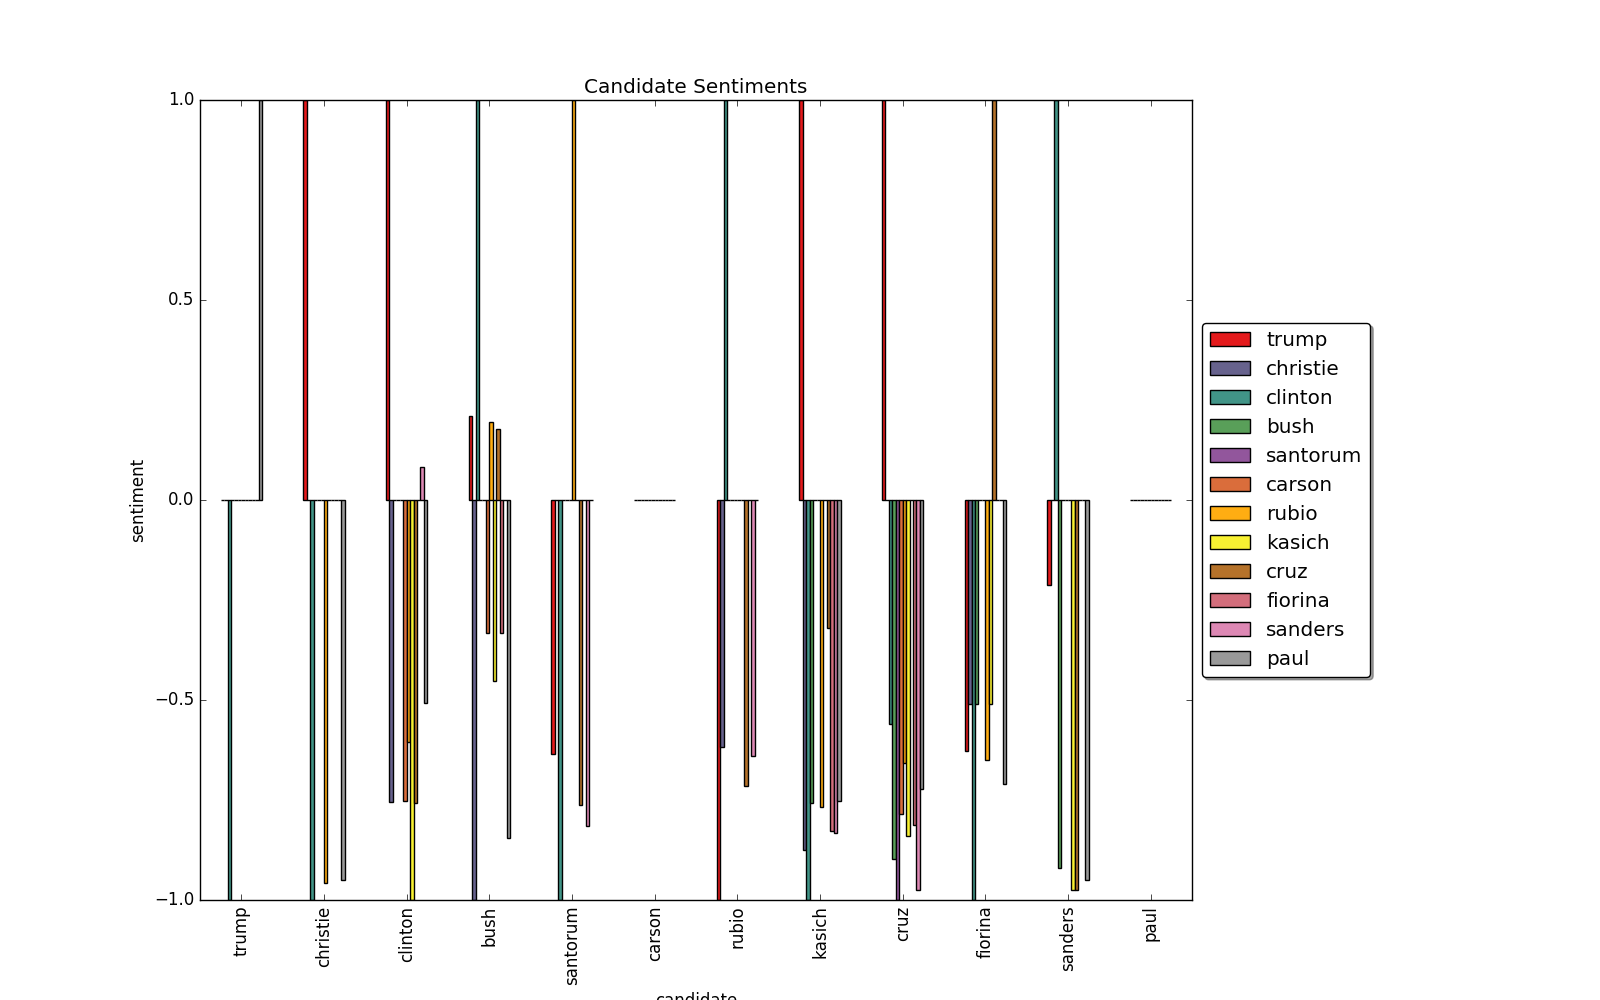
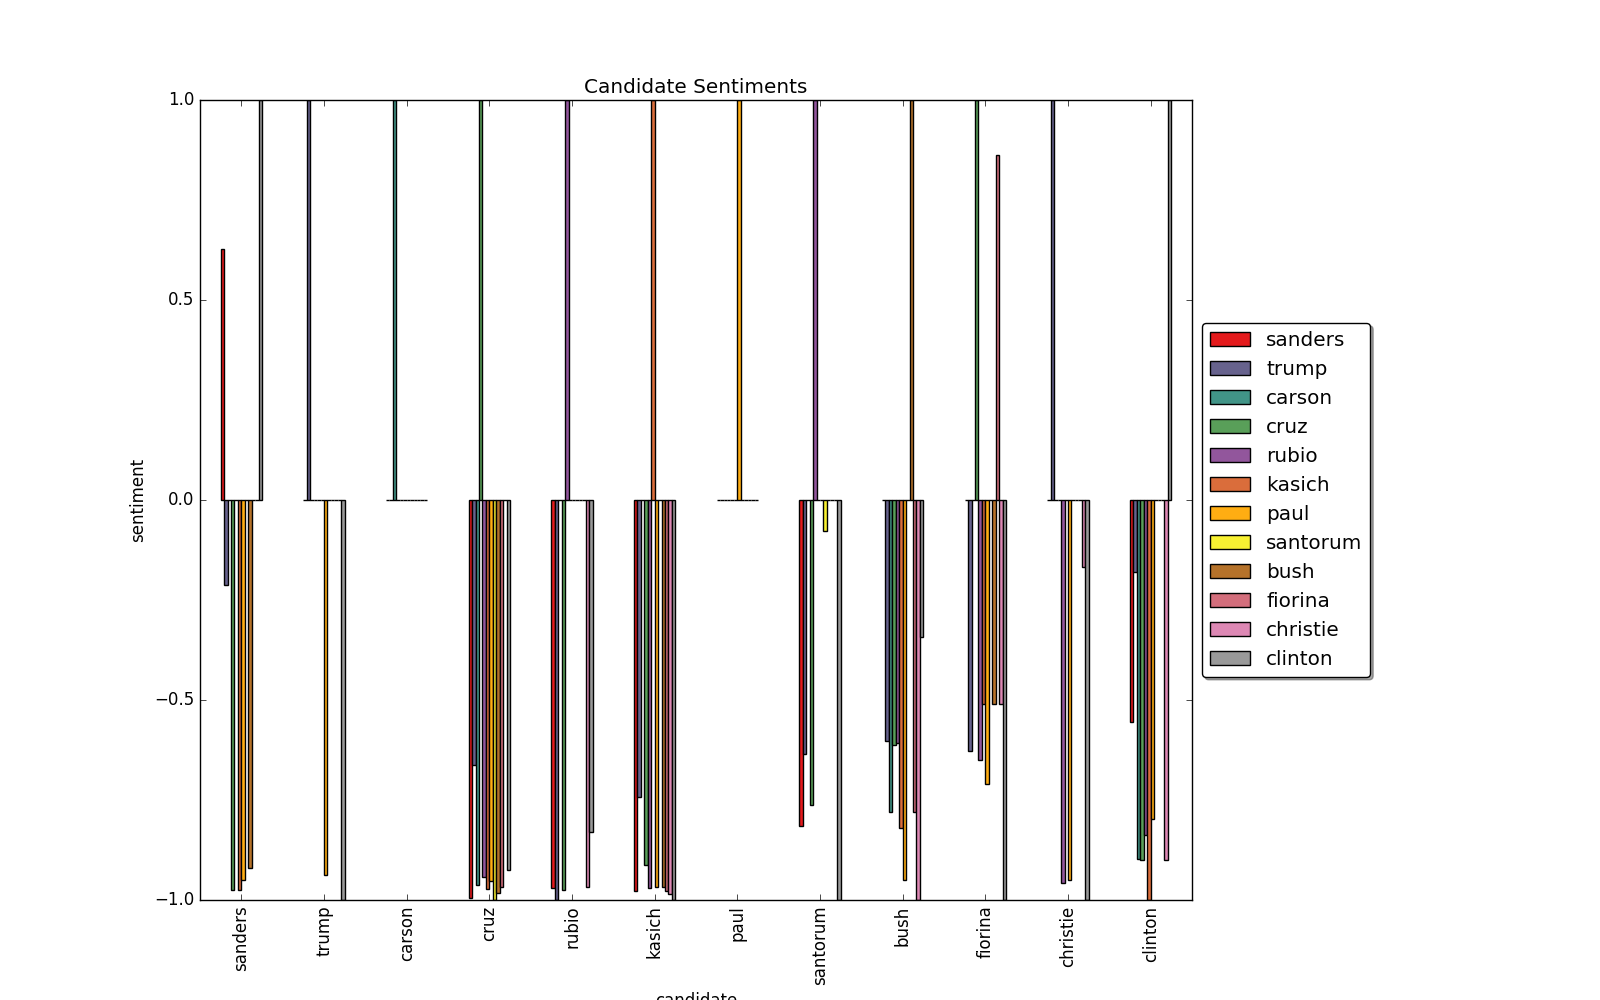
no message

diff --git a/src/sentiment.py b/src/sentiment.py
@@ -9,6 +9,7 @@ from scrape_mbox import scrape
 from collections import defaultdict
 from sklearn.pipeline import Pipeline
 from sklearn.svm import LinearSVC
+from sklearn.linear_model import SGDClassifier
 from sklearn.preprocessing import StandardScaler
 from sklearn.model_selection import StratifiedKFold
 from sklearn.metrics import classification_report
@@ -34,7 +35,7 @@ def show(data_dirs=_data_dirs):
                     X_ = [0 for _ in range(len(cand_ids))]
                     for sent in [x.lower() for x in email['sent_tokens']]:
                         for n_, cand_ in enumerate(cand_ids):
-                            if cand_ in sent and cand_ != cand:
+                            if cand_ in sent:
                                 X_[n_] += sa.polarity_scores(sent)['compound']
                     cand_dict[cand].append(X_)
 
@@ -115,7 +116,7 @@ def show(data_dirs=_data_dirs):
     X = np.asarray(X)
     y = np.asarray(y)
 
-    pipe = Pipeline([('scale', StandardScaler()), ('clf', LinearSVC())])
+    pipe = Pipeline([('scale', StandardScaler()), ('clf', LinearSVC(max_iter=10000))])
 
     y_true = []
     y_predicted = []
